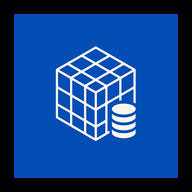
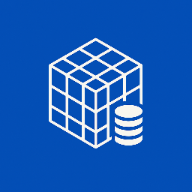
feat: update PWA assets and manifest

diff --git a/src/app.html b/src/app.html
@@ -3,22 +3,32 @@
 
 <head>
 	<meta charset="utf-8" />
-	<link rel="icon" href="%sveltekit.assets%/favicon.png" />
+	<link rel="apple-touch-icon" href="%sveltekit.assets%/apple-touch-icon.png">
+	<link rel="icon" href="%sveltekit.assets%/favicon-32x32.png" type="image/png" sizes="32x32">
+	<link rel="icon" href="%sveltekit.assets%/favicon-16x16.png" type="image/png" sizes="16x16">
+	<meta name="theme-color" content="#044eb4" media="(prefers-color-scheme: light)">
+	<meta name="theme-color" content="#1d232a" media="(prefers-color-scheme: dark)">
+	<link rel="manifest" href="/site.webmanifest">
 	<title>CubeIndex</title>
-	<meta property="description" content="Discover, track, and rate your speedcubes. CubeIndex is the all-in-one database for cubers. 🧩" />
+	<meta property="description"
+		content="Discover, track, and rate your speedcubes. CubeIndex is the all-in-one database for cubers. 🧩" />
 	<meta name="viewport" content="width=device-width, initial-scale=1" />
 	<link href="https://api.fontshare.com/v2/css?f[]=clash-display@600&display=swap" rel="stylesheet">
-	<link rel="stylesheet" href="https://cdnjs.cloudflare.com/ajax/libs/font-awesome/6.7.2/css/all.min.css" integrity="sha512-Evv84Mr4kqVGRNSgIGL/F/aIDqQb7xQ2vcrdIwxfjThSH8CSR7PBEakCr51Ck+w+/U6swU2Im1vVX0SVk9ABhg==" crossorigin="anonymous" referrerpolicy="no-referrer" />
+	<link rel="stylesheet" href="https://cdnjs.cloudflare.com/ajax/libs/font-awesome/6.7.2/css/all.min.css"
+		integrity="sha512-Evv84Mr4kqVGRNSgIGL/F/aIDqQb7xQ2vcrdIwxfjThSH8CSR7PBEakCr51Ck+w+/U6swU2Im1vVX0SVk9ABhg=="
+		crossorigin="anonymous" referrerpolicy="no-referrer" />
 
 	<meta property="og:title" content="CubeIndex - Speedcubing Database & Collection Tracker">
 	<meta property="og:site_name" content="CubeIndex">
 	<meta property="og:image" content="https://cube-index-beta.vercel.app/images/og/cubeindex-og.png">
-	<meta property="og:description" content="Discover, track, and rate your speedcubes. CubeIndex is the all-in-one database for cubers. 🧩" />
+	<meta property="og:description"
+		content="Discover, track, and rate your speedcubes. CubeIndex is the all-in-one database for cubers. 🧩" />
 	<meta property="og:url" content="https://cube-index-beta.vercel.app">
 
 	<meta property="twitter:title" content="CubeIndex">
 	<meta property="twitter:image" content="https://cube-index-beta.vercel.app/images/og/cubeindex-twitter-og.png">
-	<meta property="twitter:description" content="Discover, track, and rate your speedcubes. CubeIndex is the all-in-one database for cubers. 🧩">
+	<meta property="twitter:description"
+		content="Discover, track, and rate your speedcubes. CubeIndex is the all-in-one database for cubers. 🧩">
 	<meta property="twitter:card" content="summary_large_image">
 	%sveltekit.head%
 </head>

diff --git a/vite.config.ts b/vite.config.ts
@@ -3,9 +3,11 @@ import { svelteTesting } from "@testing-library/svelte/vite";
 import { sveltekit } from "@sveltejs/kit/vite";
 import { defineConfig } from "vite";
 import { VitePWA } from "vite-plugin-pwa";
+import devtoolsJson from "vite-plugin-devtools-json";
 
 export default defineConfig({
   plugins: [
+    devtoolsJson(),
     tailwindcss(),
     sveltekit(),
     VitePWA({
@@ -13,34 +15,8 @@ export default defineConfig({
       devOptions: {
         enabled: true,
       },
-	  includeAssets: ['favicon.svg', 'favicon.ico', 'apple-touch-icon.png'],
-      manifest: {
-        name: 'CubeIndex',
-        short_name: 'CubeIndex',
-        description: 'Track and explore speedcubes',
-        theme_color: '#0d0f2c',
-        background_color: '#ffffff',
-        display: 'standalone',
-        start_url: '/',
-        icons: [
-          {
-            src: '/pwa-192x192.png',
-            sizes: '192x192',
-            type: 'image/png',
-          },
-          {
-            src: '/pwa-512x512.png',
-            sizes: '512x512',
-            type: 'image/png',
-          },
-          {
-            src: '/pwa-512x512.png',
-            sizes: '512x512',
-            type: 'image/png',
-            purpose: 'any maskable',
-          },
-        ],
-      },
+      manifest: false,
+      injectManifest: {},
     }),
   ],
   test: {
